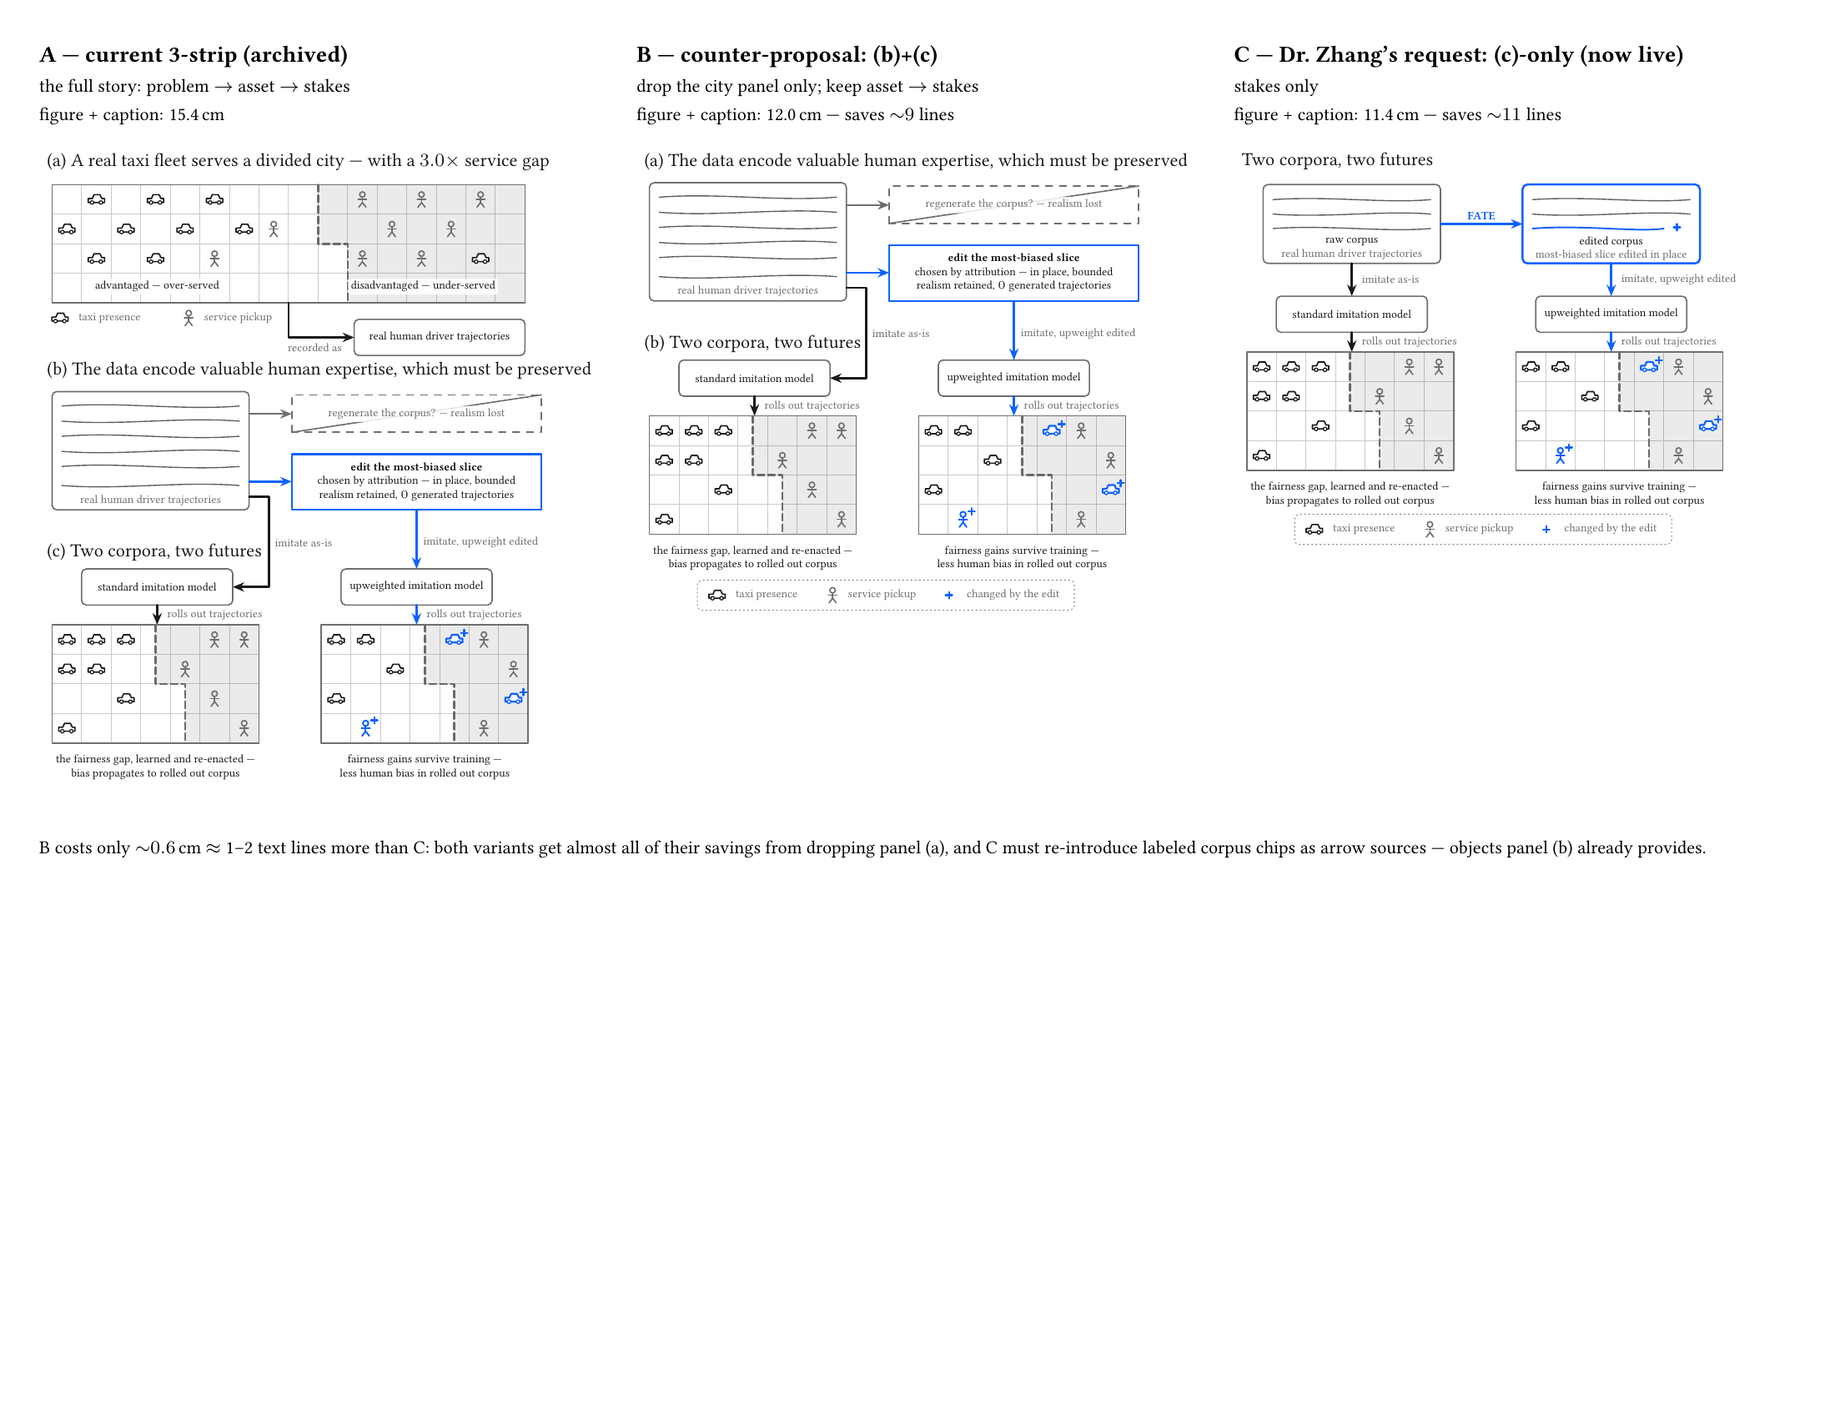
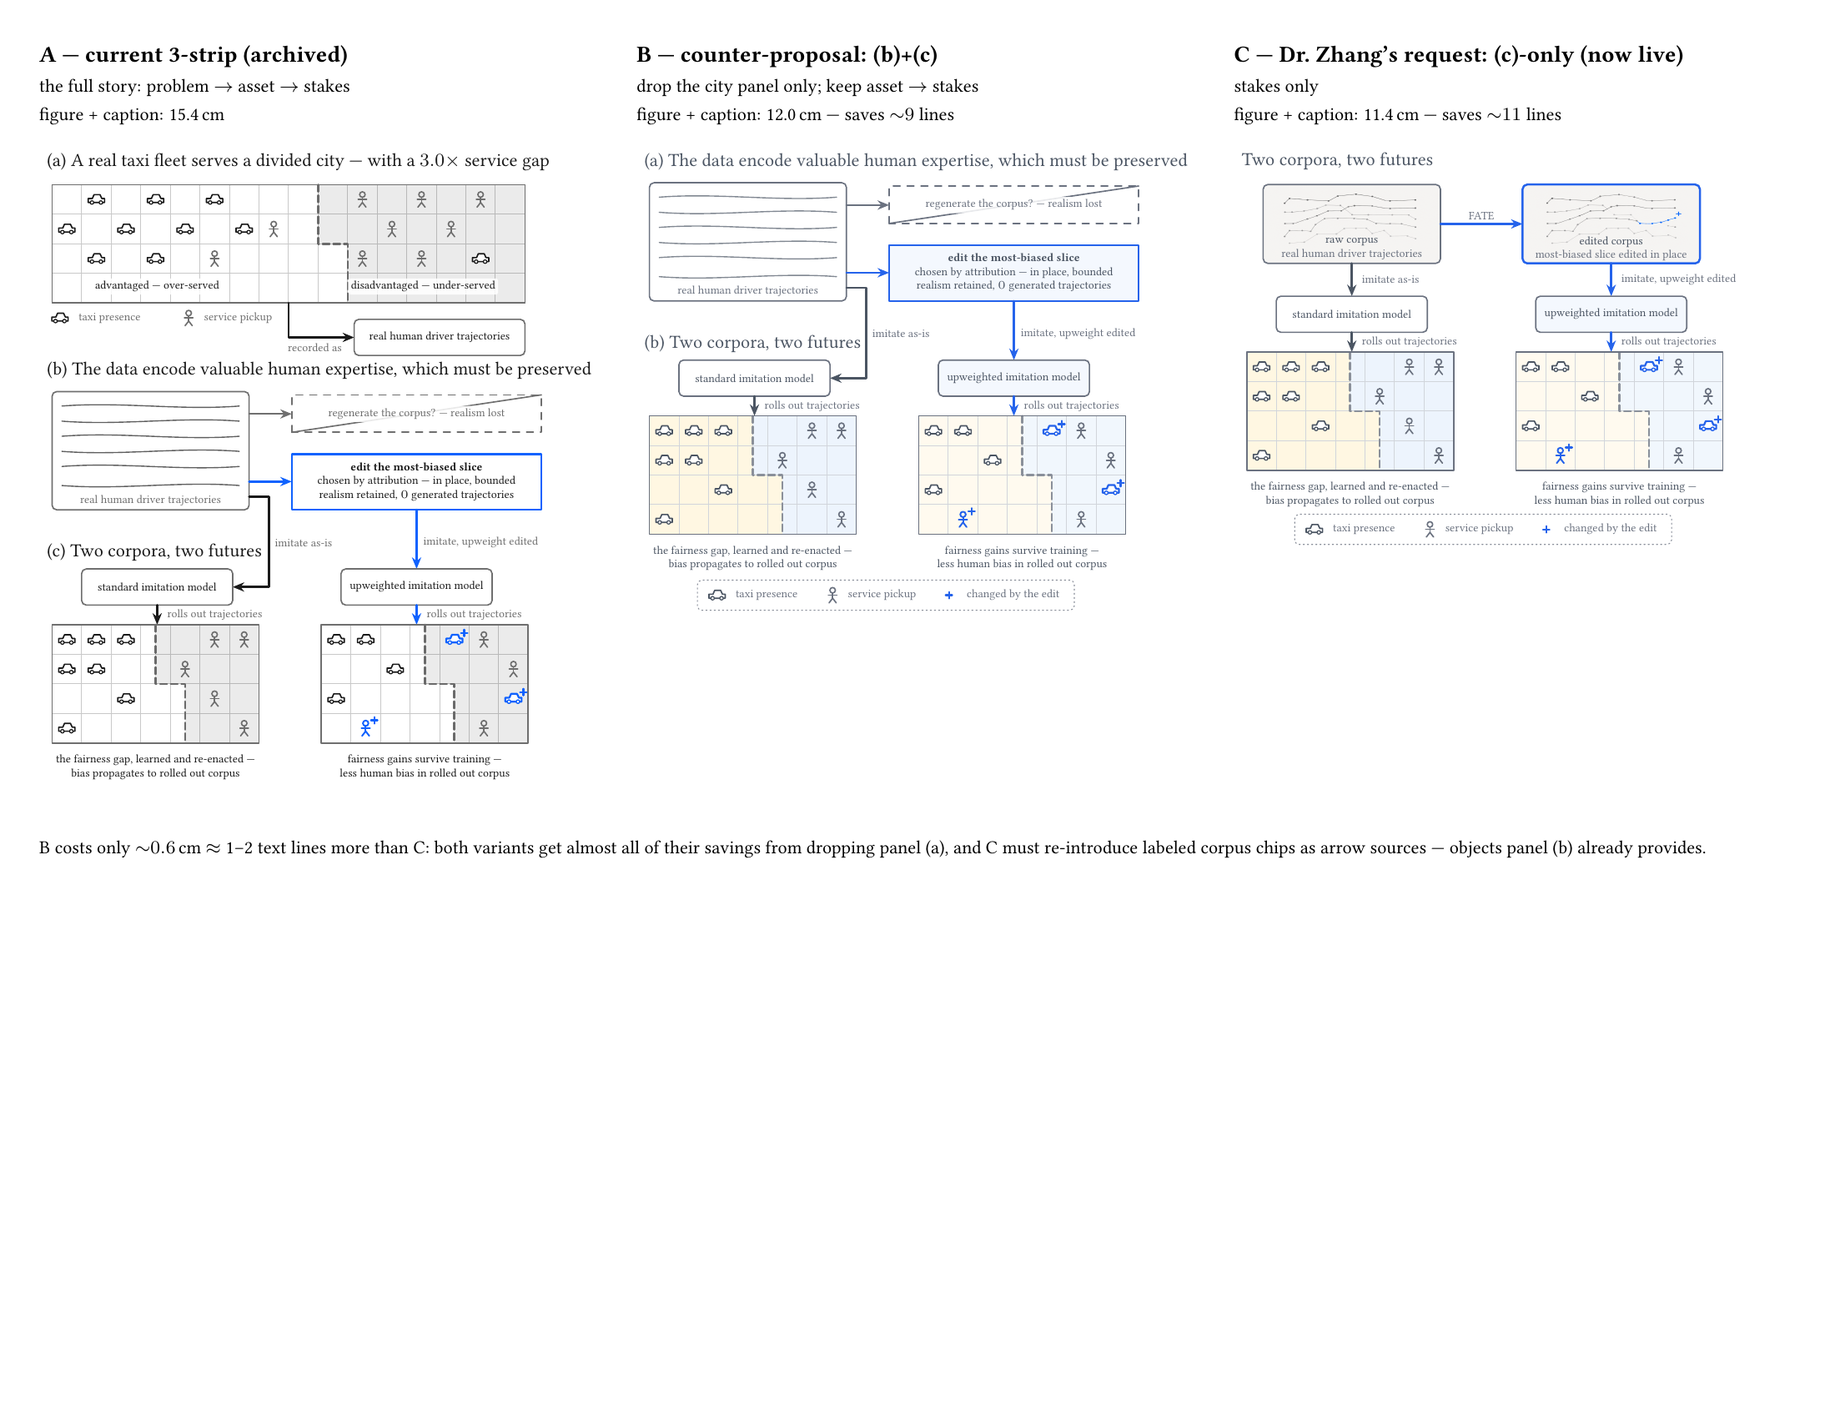
paper(figs): blue-amber color system + GPS-trace corpus chips (design review)
Two chromatic hues + neutrals, consistent across both figures: charcoal
#4B5563 = observed/unchanged; muted cobalt #2563EB = added/edited (the
FATE intervention); muted amber #D97706 = excess/trimmed; pale amber/blue
= over-/under-served REGIONS, never objects.

Fig-1: corpus chips now draw Robert's corpus_background_{raw,edited}.png
(GPS-trace renders; edited carries the accent slice + '+'; labels stay
put in the cleared zone; \figonedir resolves the path for manuscript,
harness, and comparison-sheet contexts). Upweighted-model box gets the
light grouping fill; rollout grids get dual regional tints — unfair
future starker, fair future softer (the gap narrowed). Same treatment on
the (b)+(c) variant minus the chips (images were drawn for chip
geometry).

Fig-2: regional tints over the street map (amber 10% / cobalt 7%,
translucent so streets stay visible); trim's vacated origins are now
pale-amber glyphs (amber = service taken from excess; relocated pickups
stay gray — trim is not added service); lift's blue family unchanged in
structure, muted in hue.

Checks: deut/prot simulation separation >200 linear-RGB; charcoal text
7.6:1; hues differ in luminance for grayscale; boundary dash + glyphs
still carry all semantics without color. Gates green; render-QA on both
harnesses + manuscript p1 and p6.

diff --git a/paper/figures/figure-1/figure-1.tex b/paper/figures/figure-1/figure-1.tex
@@ -27,11 +27,28 @@
 % (the edited corpus visibly COMES FROM the raw corpus); legend boxed
 % (dotted = key, not a pipeline stage), centered on the figure width, with
 % a third entry glossing the accent "+" marks.
-\definecolor{figink}{HTML}{1A1A1A}
-\definecolor{figgray}{HTML}{6F6F6F}
-\definecolor{figfaint}{HTML}{C9C9C9}
-\definecolor{figaccent}{HTML}{0F62FE}
-\definecolor{figtrim}{HTML}{D55E00}
+% COLOR SYSTEM (2026-07-20, external design review; shared with fig-2):
+% two chromatic hues + neutrals — charcoal #4B5563 = observed/unchanged;
+% muted cobalt #2563EB = added/edited (the FATE intervention); muted amber
+% #D97706 = excess/trimmed (used in fig-2); pale amber/blue fills mark
+% over-/under-served REGIONS, never objects. Corpus chips draw
+% corpus_background_{raw,edited}.png (GPS-trace renders, label zone left
+% clear by design; the edited image carries its accent slice + "+").
+% Rollout tints: unfair future starker amber/blue, fair future softer
+% (the gap has narrowed). Grayscale+CVD checked: deut/prot separation
+% >200 linear-RGB, charcoal text 7.6:1; glyphs/dashes/plus marks keep
+% carrying semantics without color.
+\definecolor{figink}{HTML}{4B5563}
+\definecolor{figgray}{HTML}{6B7280}
+\definecolor{figfaint}{HTML}{D1D5DB}
+\definecolor{figaccent}{HTML}{2563EB}
+\definecolor{figtrim}{HTML}{D97706}
+\definecolor{figtintblue}{HTML}{E8F1FC}
+\definecolor{figtintamber}{HTML}{FFF3D6}
+\definecolor{figchipfill}{HTML}{F4F8FE}
+% image dir: figures/figure-1/ from main.tex; the harness (which compiles
+% from this directory) pre-defines \figonedir as empty
+\providecommand{\figonedir}{figures/figure-1/}
 \begin{tikzpicture}[x=1cm, y=1cm, line cap=round, line join=round,
   % service pickup: passenger stick figure (per Dr. Zhang 2026-07-18; was an x)
   % Sized to match fig:overview's cell-fill ratio (Robert 2026-07-18): ~0.234cm
@@ -87,23 +104,26 @@
   % =========================================================================
   % Two corpus chips (arrow sources: the raw corpus and the edited corpus)
   % =========================================================================
-  % raw corpus chip (left source)
+  % raw corpus chip (left source): GPS-trace image, gray traces only
+  % (corpus_background_raw.png was drawn for this 2.7x1.2 box; its bottom
+  % third is left clear for the label — keep the label position fixed)
+  \begin{scope}
+    \clip[rounded corners=2pt] (1.15,-1.55) rectangle (3.85,-0.35);
+    \node[inner sep=0pt] at (2.5,-0.95)
+      {\includegraphics[width=2.7cm, height=1.2cm]{\figonedir corpus_background_raw.png}};
+  \end{scope}
   \draw[panelframe, rounded corners=2pt] (1.15,-1.55) rectangle (3.85,-0.35);
-  \foreach \yy/\sgn in {-0.58/1, -0.80/-1, -1.02/1}
-    \draw[figink!70, line width=0.5pt] (1.30,\yy)
-      .. controls (2.15,\yy+\sgn*0.06) and (3.00,\yy-\sgn*0.06) .. (3.70,\yy);
   \node[font=\tiny, text=figink, align=center] at (2.5,-1.33)
     {raw corpus\\ \textcolor{figgray}{real human driver trajectories}};
-  % edited corpus chip (right source): accent frame, one accent line + plus tag
+  % edited corpus chip (right source): same trace rendering with the
+  % FATE-edited slice in accent + its "+" tag baked into the image
+  \begin{scope}
+    \clip[rounded corners=2pt] (5.1,-1.55) rectangle (7.8,-0.35);
+    \node[inner sep=0pt] at (6.45,-0.95)
+      {\includegraphics[width=2.7cm, height=1.2cm]{\figonedir corpus_background_edited.png}};
+  \end{scope}
   \draw[figaccent, line width=0.9pt, rounded corners=2pt]
     (5.1,-1.55) rectangle (7.8,-0.35);
-  \foreach \yy/\sgn in {-0.58/1, -0.80/-1}
-    \draw[figink!70, line width=0.5pt] (5.25,\yy)
-      .. controls (6.10,\yy+\sgn*0.06) and (6.95,\yy-\sgn*0.06) .. (7.65,\yy);
-  \draw[figaccent, line width=0.7pt] (5.25,-1.02)
-    .. controls (6.05,-0.96) and (6.85,-1.08) .. (7.25,-1.02);
-  \draw[figaccent, line width=0.8pt]
-    (7.40,-1.00) -- (7.50,-1.00) (7.45,-1.05) -- (7.45,-0.95);
   \node[font=\tiny, text=figink, align=center] at (6.45,-1.33)
     {edited corpus\\ \textcolor{figgray}{most-biased slice edited in place}};
   % FATE transforms the raw corpus into the edited corpus (provenance arrow:
@@ -126,7 +146,10 @@
   % =========================================================================
   \draw[panelframe, rounded corners=2pt] (1.35,-2.6) rectangle (3.65,-2.05);
   \node[font=\tiny, text=figink] at (2.5,-2.325) {standard imitation model};
-  \draw[panelframe, rounded corners=2pt] (5.3,-2.6) rectangle (7.6,-2.05);
+  % light blue fill groups the intervention pipeline (border stays gray so
+  % the fill, not another saturated outline, does the grouping)
+  \draw[panelframe, fill=figchipfill, rounded corners=2pt]
+    (5.3,-2.6) rectangle (7.6,-2.05);
   \node[font=\tiny, text=figink] at (6.45,-2.325) {upweighted imitation model};
 
   % =========================================================================
@@ -142,10 +165,14 @@
   % design, lines 178–215, with +4.15 added to every y-coordinate)
   % =========================================================================
   % left future: the gap learned as competence (and recycled by dispatch)
+  % regional tints under the grid — over-served amber, under-served blue;
+  % the unfair future gets the starker contrast
+  \fill[figtintamber!70] (0.9,-2.9) -- (2.475,-2.9) -- (2.475,-3.8)
+    -- (2.925,-3.8) -- (2.925,-4.7) -- (0.9,-4.7) -- cycle;
+  \fill[figtintblue!80] (2.475,-2.9) -- (2.475,-3.8) -- (2.925,-3.8)
+    -- (2.925,-4.7) -- (4.05,-4.7) -- (4.05,-2.9) -- cycle;
   \draw[citygrid, xstep=0.45, ystep=0.45, shift={(0.9,-4.7)}]
     (0,0) grid (3.15,1.8);
-  \fill[black, opacity=0.08] (2.475,-2.9) -- (2.475,-3.8) -- (2.925,-3.8)
-    -- (2.925,-4.7) -- (4.05,-4.7) -- (4.05,-2.9) -- cycle;
   \draw[boundary] (2.475,-2.9) -- (2.475,-3.8) -- (2.925,-3.8)
     -- (2.925,-4.7);
   \draw[panelframe] (0.9,-4.7) rectangle (4.05,-2.9);
@@ -157,10 +184,13 @@
                      3.375/-4.025, 3.825/-4.475}
     \pic[figgray] at (\x,\y) {pick};
   % right future: fairness survives training; presence reaches under-served
+  % same tints, softened and more balanced — the gap has narrowed
+  \fill[figtintamber!40] (5.0,-2.9) -- (6.575,-2.9) -- (6.575,-3.8)
+    -- (7.025,-3.8) -- (7.025,-4.7) -- (5.0,-4.7) -- cycle;
+  \fill[figtintblue!60] (6.575,-2.9) -- (6.575,-3.8) -- (7.025,-3.8)
+    -- (7.025,-4.7) -- (8.15,-4.7) -- (8.15,-2.9) -- cycle;
   \draw[citygrid, xstep=0.45, ystep=0.45, shift={(5.0,-4.7)}]
     (0,0) grid (3.15,1.8);
-  \fill[black, opacity=0.08] (6.575,-2.9) -- (6.575,-3.8) -- (7.025,-3.8)
-    -- (7.025,-4.7) -- (8.15,-4.7) -- (8.15,-2.9) -- cycle;
   \draw[boundary] (6.575,-2.9) -- (6.575,-3.8) -- (7.025,-3.8)
     -- (7.025,-4.7);
   \draw[panelframe] (5.0,-4.7) rectangle (8.15,-2.9);

diff --git a/paper/figures/figure-2/figure-2.tex b/paper/figures/figure-2/figure-2.tex
@@ -15,15 +15,24 @@
 %   - Bigger arrowheads throughout.
 %   Two-hue scheme confirmed by Robert: vermillion = trim, blue = lift/supply.
 %
+% COLOR SYSTEM (2026-07-20, external design review; shared with fig-1):
+%   hues muted — amber #D97706 = trim/excess/source, cobalt #2563EB =
+%   lift/added; charcoal #4B5563 neutrals. Regional tints over the map:
+%   pale amber ~10% = over-served, pale blue ~7% = under-served (color is
+%   reinforcement — boundary dash + glyphs still carry the split in
+%   grayscale). Trim's vacated origins are now pale-amber glyphs ("service
+%   taken from an excess location"); relocated pickups stay gray (trim is
+%   NOT added service — only lift's destination pick is cobalt).
+%
 % Geometry: 1 cell = 1 unit = 4.9mm; panel = 10x8 cells = 49mm x 39.2mm (the
 % \includegraphics sizes below must track any unit change). Panel 3 shows the
 % image's lower-right quadrant at 2x via clip + oversized include anchored at
 % (-10,0). No \resizebox: fonts are true manuscript size.
-\definecolor{figink}{HTML}{1A1A1A}
-\definecolor{figgray}{HTML}{6F6F6F}
-\definecolor{figfaint}{HTML}{C9C9C9}
-\definecolor{figaccent}{HTML}{0F62FE}
-\definecolor{figtrim}{HTML}{D55E00}
+\definecolor{figink}{HTML}{4B5563}
+\definecolor{figgray}{HTML}{6B7280}
+\definecolor{figfaint}{HTML}{D1D5DB}
+\definecolor{figaccent}{HTML}{2563EB}
+\definecolor{figtrim}{HTML}{D97706}
 \begin{tikzpicture}[x=4.9mm, y=4.9mm, line cap=round, line join=round,
   % cell-scale marks: \pic[color=<c>] at (cell center) {pick};
   % service pickup: passenger stick figure (per Dr. Zhang 2026-07-18; was an x)
@@ -56,8 +65,11 @@
   \begin{scope}
     \node[anchor=south west, inner sep=0pt] at (0,0)
       {\includegraphics[width=49mm, height=39.2mm]{figures/figure-2/SZ_street_background_5x4_rotated}};
-    % disadvantaged district: translucent tint east of the boundary
-    \fill[black, opacity=0.08] (4,8) -- (4,5) -- (5,5) -- (5,3) -- (6,3)
+    % regional tints over the map: over-served pale amber, under-served
+    % pale blue (translucent so the streets stay visible)
+    \fill[figtrim, opacity=0.10] (0,0) -- (0,8) -- (4,8) -- (4,5) -- (5,5)
+      -- (5,3) -- (6,3) -- (6,1) -- (7,1) -- (7,0) -- cycle;
+    \fill[figaccent, opacity=0.07] (4,8) -- (4,5) -- (5,5) -- (5,3) -- (6,3)
       -- (6,1) -- (7,1) -- (7,0) -- (10,0) -- (10,8) -- cycle;
     \draw[citygrid, step=1] (0,0) grid (10,8);
     \draw[boundary] (4,8) -- (4,5) -- (5,5) -- (5,3) -- (6,3) -- (6,1)
@@ -96,7 +108,9 @@
   \begin{scope}[shift={(11.5,0)}]
     \node[anchor=south west, inner sep=0pt] at (0,0)
       {\includegraphics[width=49mm, height=39.2mm]{figures/figure-2/SZ_street_background_5x4_rotated}};
-    \fill[black, opacity=0.08] (4,8) -- (4,5) -- (5,5) -- (5,3) -- (6,3)
+    \fill[figtrim, opacity=0.10] (0,0) -- (0,8) -- (4,8) -- (4,5) -- (5,5)
+      -- (5,3) -- (6,3) -- (6,1) -- (7,1) -- (7,0) -- cycle;
+    \fill[figaccent, opacity=0.07] (4,8) -- (4,5) -- (5,5) -- (5,3) -- (6,3)
       -- (6,1) -- (7,1) -- (7,0) -- (10,0) -- (10,8) -- cycle;
     \draw[citygrid, step=1] (0,0) grid (10,8);
     \draw[boundary] (4,8) -- (4,5) -- (5,5) -- (5,3) -- (6,3) -- (6,1)
@@ -115,12 +129,13 @@
                        8.5/3.5, 9.5/2.5, 9.5/3.5}
       \pic[color=figgray] at (\x,\y) {pick};
     \pic at (7.5,2.5) {taxi};
-    % two trim edits: ghosted origin -> vermillion arrow -> relocated pickup,
-    % both staying inside the advantaged district (west of the boundary)
-    \pic[color=figfaint] at (2.5,5.5) {pick};
+    % two trim edits: vacated origin (pale amber = service taken from an
+    % excess location) -> amber arrow -> relocated pickup (gray: trim is
+    % NOT added service), both inside the advantaged district
+    \pic[color=figtrim!50] at (2.5,5.5) {pick};
     \draw[trimedit] (2.5,5.5) -- (4.5,4.5);
     \pic[color=figgray] at (4.5,4.5) {pick};
-    \pic[color=figfaint] at (0.5,4.5) {pick};
+    \pic[color=figtrim!50] at (0.5,4.5) {pick};
     \draw[trimedit] (0.5,4.5) -- (1.5,3.5);
     \pic[color=figgray] at (1.5,3.5) {pick};
     \node[lbl, font=\tiny, text=figgray, align=center] at (8.0,6.9)
@@ -128,9 +143,9 @@
     % legend (lower left)
     \fill[white, opacity=0.78, rounded corners=1pt]
       (0.12,0.08) rectangle (5.0,1.45);
-    \pic[color=figfaint] at (0.5,1.05) {pick};
+    \pic[color=figtrim!50] at (0.5,1.05) {pick};
     \node[anchor=west, font=\tiny, text=figink] at (0.85,1.05)
-      {original position};
+      {original position (vacated)};
     \draw[trimedit] (0.25,0.4) -- (0.8,0.4);
     \node[anchor=west, font=\tiny, text=figink] at (0.85,0.4)
       {trim edit (pickup relocated)};
@@ -148,8 +163,12 @@
         {\includegraphics[width=98mm, height=78.4mm]{figures/figure-2/SZ_street_background_5x4_rotated}};
     \end{scope}
     % under-served district: everything east of the boundary (left sliver is
-    % the advantaged edge, continuing the panels-1-2 corridor at 2x)
-    \fill[black, opacity=0.08] (0,8) -- (0,6) -- (2,6) -- (2,2) -- (4,2)
+    % the advantaged edge, continuing the panels-1-2 corridor at 2x);
+    % base tint kept lighter here so the value-of-presence field stays the
+    % dominant blue signal
+    \fill[figtrim, opacity=0.10] (0,0) -- (0,6) -- (2,6) -- (2,2) -- (4,2)
+      -- (4,0) -- cycle;
+    \fill[figaccent, opacity=0.05] (0,8) -- (0,6) -- (2,6) -- (2,2) -- (4,2)
       -- (4,0) -- (10,0) -- (10,8) -- cycle;
     % QUANTIZED value-of-presence field (accent cells, opacity = value)
     \fill[figaccent, fill opacity=0.26] (7,2) rectangle (8,3);   % peak

diff --git a/paper/figures/figure-1/figure-1-bc.tex b/paper/figures/figure-1/figure-1-bc.tex
@@ -47,11 +47,19 @@
 % keeps taxis in the advantaged district, and the edited corpus trains an
 % upweighted imitation model whose rolled-out map moves taxi presence and
 % pickups, marked with plus signs, into the disadvantaged district.}
-\definecolor{figink}{HTML}{1A1A1A}
-\definecolor{figgray}{HTML}{6F6F6F}
-\definecolor{figfaint}{HTML}{C9C9C9}
-\definecolor{figaccent}{HTML}{0F62FE}
-\definecolor{figtrim}{HTML}{D55E00}
+% COLOR SYSTEM (2026-07-20): tracks the live figure-1.tex — charcoal =
+% observed/unchanged, muted cobalt = added/edited, pale amber/blue fills =
+% over-/under-served regions (see the color block in figure-1.tex for the
+% full rationale + CVD/grayscale checks). Kept in sync so the meeting
+% comparison differs only in the disputed panels.
+\definecolor{figink}{HTML}{4B5563}
+\definecolor{figgray}{HTML}{6B7280}
+\definecolor{figfaint}{HTML}{D1D5DB}
+\definecolor{figaccent}{HTML}{2563EB}
+\definecolor{figtrim}{HTML}{D97706}
+\definecolor{figtintblue}{HTML}{E8F1FC}
+\definecolor{figtintamber}{HTML}{FFF3D6}
+\definecolor{figchipfill}{HTML}{F4F8FE}
 \begin{tikzpicture}[x=1cm, y=1cm, line cap=round, line join=round,
   % service pickup: passenger stick figure (per Dr. Zhang 2026-07-18; was an x)
   % Sized to match fig:overview's cell-fill ratio (Robert 2026-07-18): ~0.234cm
@@ -119,7 +127,8 @@
   \node[lbl, font=\tiny, text=figgray] at (6.45,-0.66)
     {regenerate the corpus? --- realism lost};
   % door 2 (ours): edit in place
-  \draw[figaccent, line width=0.9pt] (4.55,-2.12) rectangle (8.35,-1.27);
+  \draw[figaccent, line width=0.9pt, fill=figchipfill]
+    (4.55,-2.12) rectangle (8.35,-1.27);
   \node[font=\tiny, text=figink, align=center] at (6.45,-1.69)
     {\textbf{edit the most-biased slice}\\
      chosen by attribution --- in place, bounded\\
@@ -148,7 +157,8 @@
   \draw[flowacc] (6.45,-2.12) -- (6.45,-3.02);
   \node[anchor=west, font=\tiny, text=figgray] at (6.43,-2.62)
     {imitate, upweight edited};
-  \draw[panelframe, rounded corners=2pt] (5.3,-3.57) rectangle (7.6,-3.02);
+  \draw[panelframe, fill=figchipfill, rounded corners=2pt]
+    (5.3,-3.57) rectangle (7.6,-3.02);
   \node[font=\tiny, text=figink] at (6.45,-3.295)
     {upweighted imitation model};
   \draw[flowacc] (6.45,-3.57) -- (6.45,-3.87);
@@ -156,10 +166,12 @@
     {rolls out trajectories};
 
   % left future: the gap learned as competence (and recycled by dispatch)
+  \fill[figtintamber!70] (0.9,-3.87) -- (2.475,-3.87) -- (2.475,-4.77)
+    -- (2.925,-4.77) -- (2.925,-5.67) -- (0.9,-5.67) -- cycle;
+  \fill[figtintblue!80] (2.475,-3.87) -- (2.475,-4.77) -- (2.925,-4.77)
+    -- (2.925,-5.67) -- (4.05,-5.67) -- (4.05,-3.87) -- cycle;
   \draw[citygrid, xstep=0.45, ystep=0.45, shift={(0.9,-5.67)}]
     (0,0) grid (3.15,1.8);
-  \fill[black, opacity=0.08] (2.475,-3.87) -- (2.475,-4.77) -- (2.925,-4.77)
-    -- (2.925,-5.67) -- (4.05,-5.67) -- (4.05,-3.87) -- cycle;
   \draw[boundary] (2.475,-3.87) -- (2.475,-4.77) -- (2.925,-4.77)
     -- (2.925,-5.67);
   \draw[panelframe] (0.9,-5.67) rectangle (4.05,-3.87);
@@ -171,10 +183,12 @@
                      3.375/-4.995, 3.825/-5.445}
     \pic[figgray] at (\x,\y) {pick};
   % right future: fairness survives training; presence reaches under-served
+  \fill[figtintamber!40] (5.0,-3.87) -- (6.575,-3.87) -- (6.575,-4.77)
+    -- (7.025,-4.77) -- (7.025,-5.67) -- (5.0,-5.67) -- cycle;
+  \fill[figtintblue!60] (6.575,-3.87) -- (6.575,-4.77) -- (7.025,-4.77)
+    -- (7.025,-5.67) -- (8.15,-5.67) -- (8.15,-3.87) -- cycle;
   \draw[citygrid, xstep=0.45, ystep=0.45, shift={(5.0,-5.67)}]
     (0,0) grid (3.15,1.8);
-  \fill[black, opacity=0.08] (6.575,-3.87) -- (6.575,-4.77) -- (7.025,-4.77)
-    -- (7.025,-5.67) -- (8.15,-5.67) -- (8.15,-3.87) -- cycle;
   \draw[boundary] (6.575,-3.87) -- (6.575,-4.77) -- (7.025,-4.77)
     -- (7.025,-5.67);
   \draw[panelframe] (5.0,-5.67) rectangle (8.15,-3.87);

diff --git a/paper/figures/figure-1/design-archive/comparison-2026-07-20.tex b/paper/figures/figure-1/design-archive/comparison-2026-07-20.tex
@@ -11,8 +11,12 @@
 \usepackage[landscape, margin=0.6cm]{geometry}
 \usepackage[T1]{fontenc}
 \usepackage{libertine}
+\usepackage{graphicx}
 \usepackage{tikz}
 \usetikzlibrary{arrows.meta}
+% figure-1.tex resolves its corpus images via \figonedir; from this
+% directory they sit one level up
+\newcommand{\figonedir}{../}
 \pagestyle{empty}
 \setlength{\parindent}{0pt}
 \begin{document}

diff --git a/paper/figures/figure-1/figure-1-test.tex b/paper/figures/figure-1/figure-1-test.tex
@@ -10,6 +10,9 @@
 \microtypesetup{expansion=false} % same local-font shim as main.tex
 \usepackage{tikz}
 \usetikzlibrary{arrows.meta}
+% figure-1.tex resolves its corpus images via \figonedir; from this
+% directory the images sit alongside, so the prefix is empty
+\newcommand{\figonedir}{}
 \begin{document}
 \title{Teaser test harness --- not the manuscript}
 \maketitle
